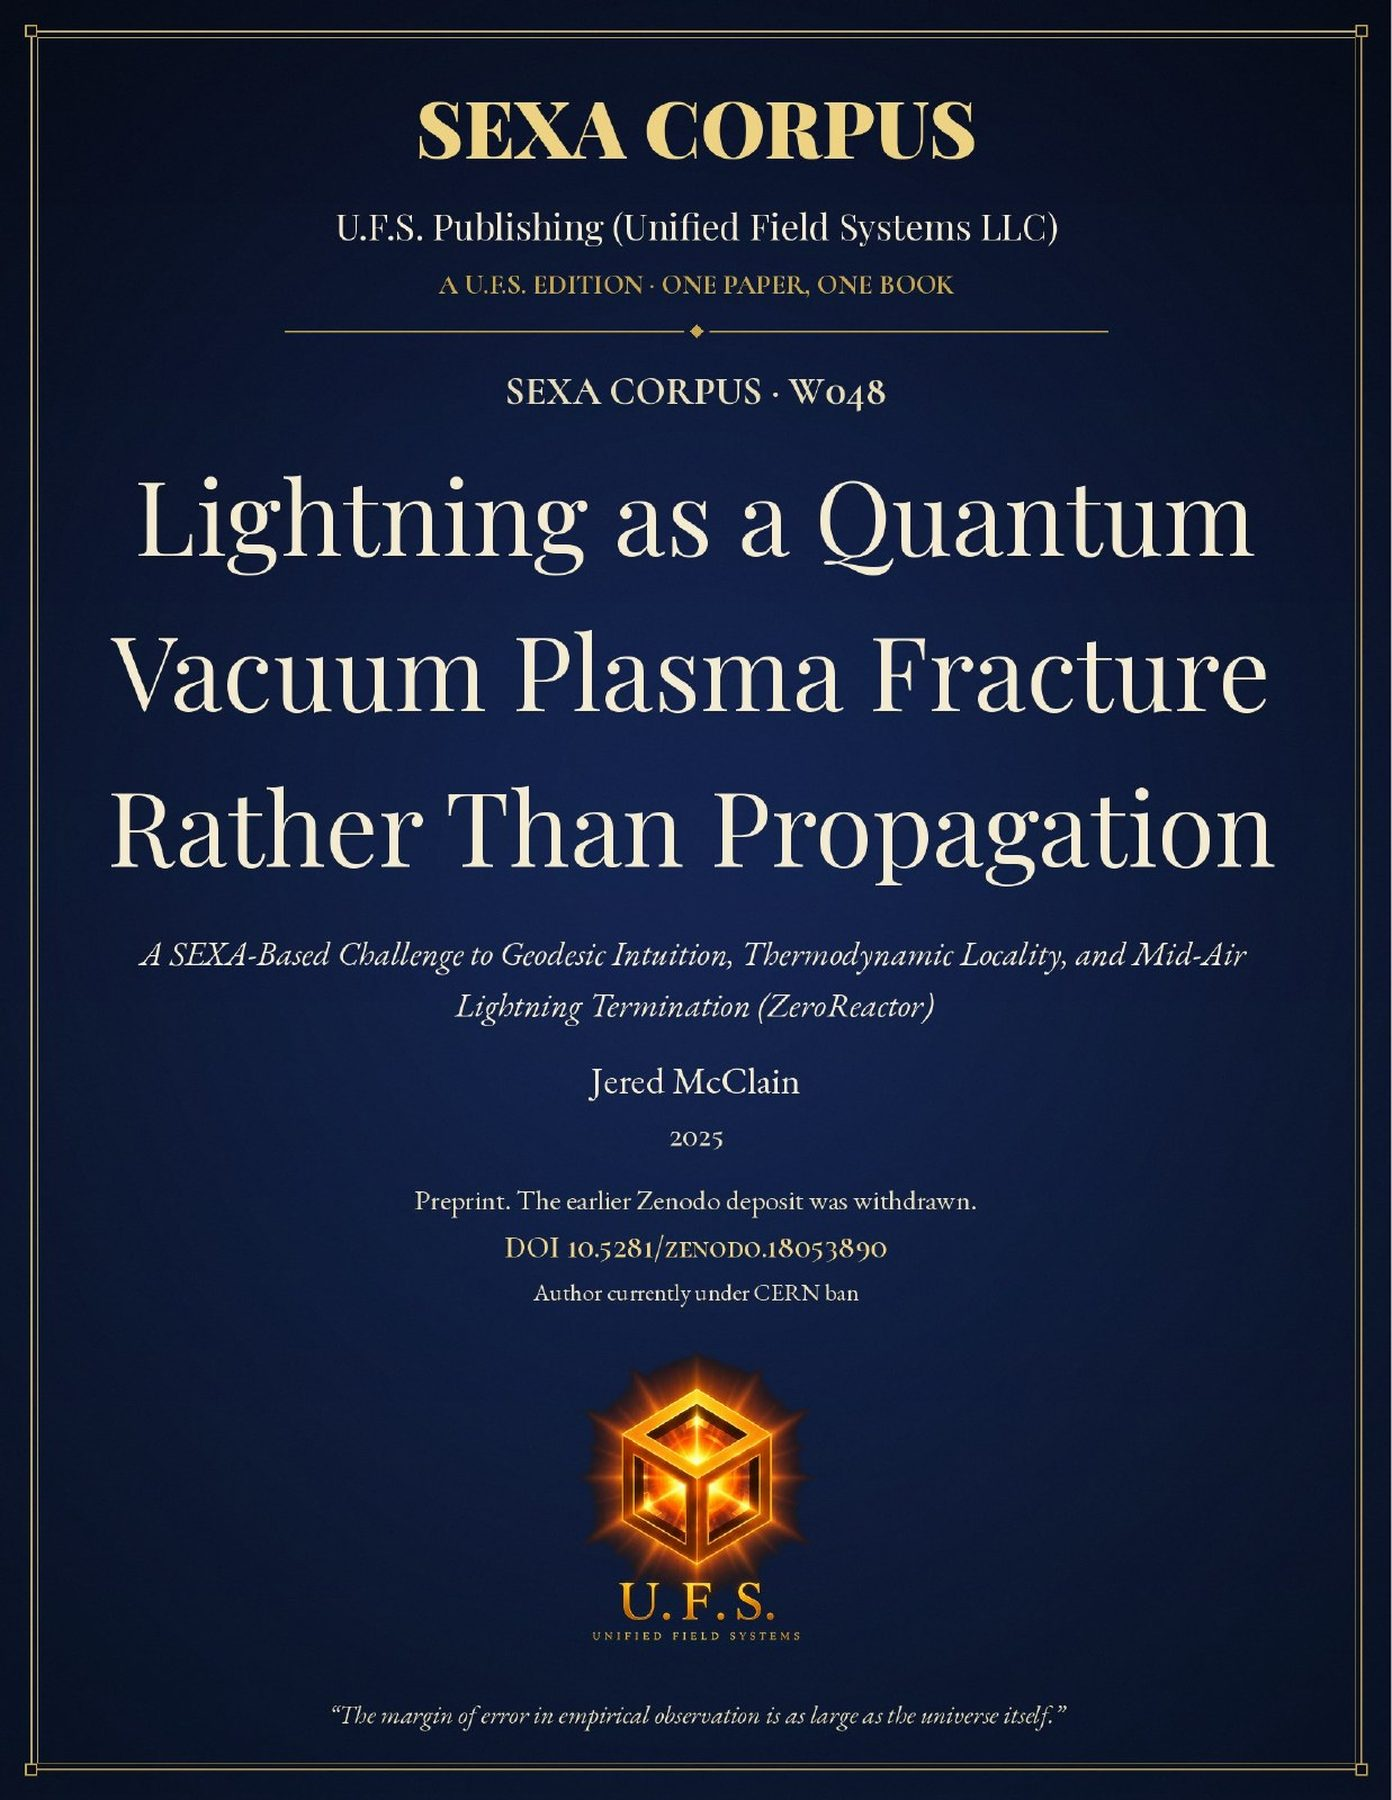
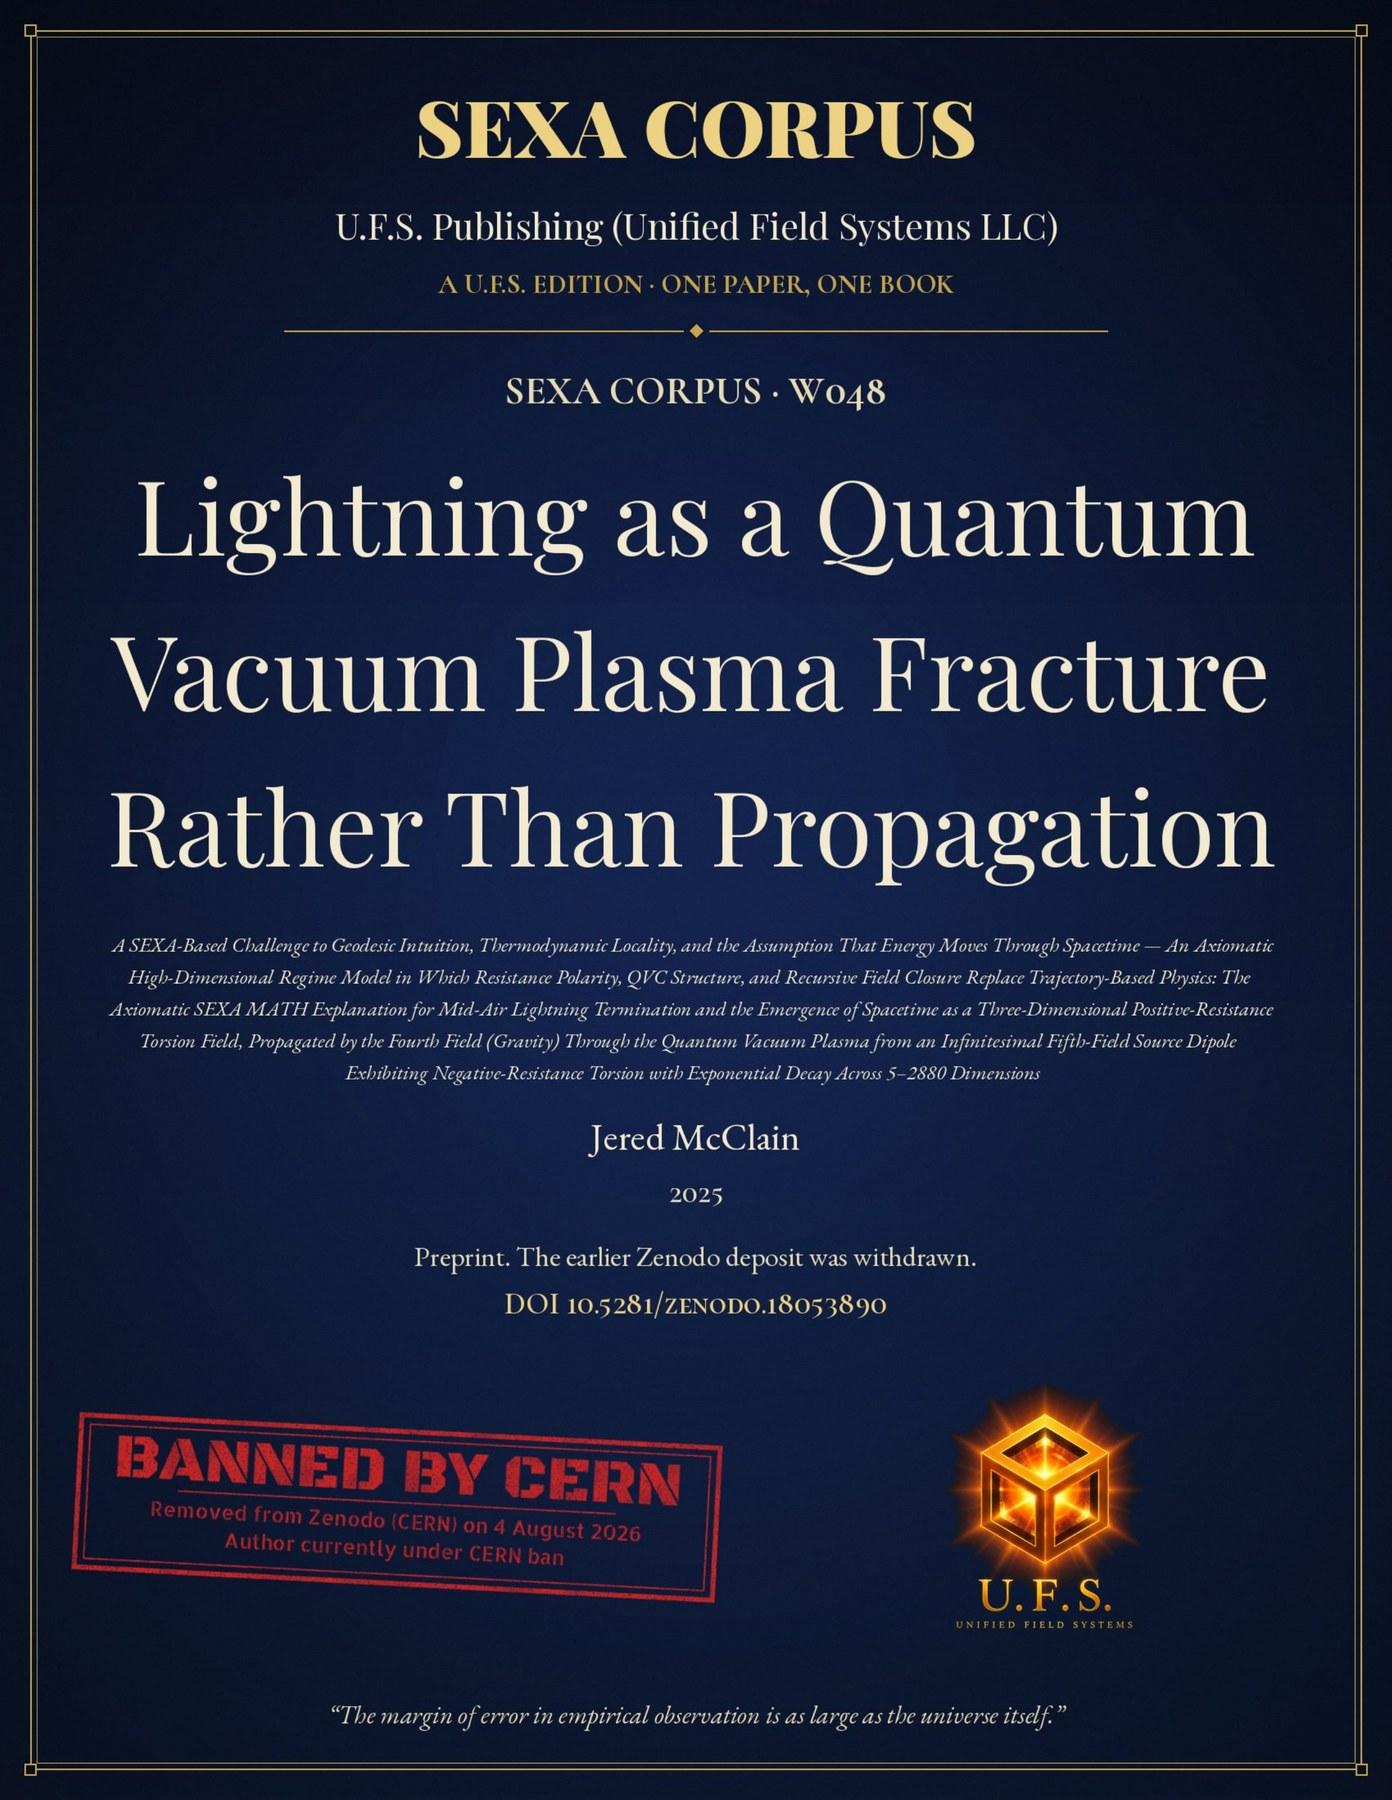
CERN-ban works: BANNED BY CERN stamped front covers + red CERN BAN label beside each cover (W011 W024 W039 W042 W044 W045 W046 W047 W048 W049 W069)

diff --git a/sexa-corpus-witness.html b/sexa-corpus-witness.html
@@ -136,6 +136,7 @@ model-viewer{display:block;width:100%;height:420px;background:#05070a;border-rad
 .contact .fallback{text-align:center;color:var(--mute);font-size:13px;line-height:1.45}
 .contact .fallback a{color:var(--cyan)}
 @media(max-width:640px){.rtype{grid-template-columns:1fr}}
+.cern-ban-label{display:inline-block;font:800 15px/1.2 var(--sans,Arial,Helvetica,sans-serif);letter-spacing:.14em;text-transform:uppercase;color:#C00000;border:2px solid #C00000;padding:4px 10px;margin:10px 0 6px}.cern-card .cern-ban-label{margin:0 0 6px;font-size:13px;padding:3px 8px}
 </style>
 </head>
 <body>
@@ -1249,10 +1250,11 @@ model-viewer{display:block;width:100%;height:420px;background:#05070a;border-rad
 <article class="cbook" id="corpus-W011">
 <figure>
 <picture>
-<source type="image/webp" srcset="assets/corpus/covers/W011.webp">
-<img class="cover" src="assets/corpus/covers/W011.jpg" width="1392" height="1800" alt="Front cover of W011: A Recursive Closure Criterion for a Theory of Everything: A 60-Glyph Quaternionic Inter-Domain Syllogistic Admissibility ≡ Prime Atom of Logic" decoding="async" loading="lazy">
+<source type="image/webp" srcset="assets/corpus/covers/W011.webp?v=cernban1">
+<img class="cover" src="assets/corpus/covers/W011.jpg?v=cernban1" width="1392" height="1800" alt="Front cover of W011: A Recursive Closure Criterion for a Theory of Everything: A 60-Glyph Quaternionic Inter-Domain Syllogistic Admissibility ≡ Prime Atom of Logic" decoding="async" loading="lazy">
 </picture>
 </figure>
+<p class="cern-ban-label" style="color:#C00000;font-weight:800">CERN BAN</p>
 <p class="wid">W011</p>
 <h3>A Recursive Closure Criterion for a Theory of Everything: A 60-Glyph Quaternionic Inter-Domain Syllogistic Admissibility ≡ Prime Atom of Logic</h3>
 <p class="by">Jered McClain</p>
@@ -1369,10 +1371,11 @@ model-viewer{display:block;width:100%;height:420px;background:#05070a;border-rad
 <article class="cbook" id="corpus-W024">
 <figure>
 <picture>
-<source type="image/webp" srcset="assets/corpus/covers/W024.webp">
-<img class="cover" src="assets/corpus/covers/W024.jpg" width="1392" height="1800" alt="Front cover of W024: The Γ-Subthreshold Fold Logic Theorem: Minimal Admissibility Compression, Recursive Information Preservation, and Unique Reconstruction Across the 2880-Dimensional Recursive Hierarchy" decoding="async" loading="lazy">
+<source type="image/webp" srcset="assets/corpus/covers/W024.webp?v=cernban1">
+<img class="cover" src="assets/corpus/covers/W024.jpg?v=cernban1" width="1392" height="1800" alt="Front cover of W024: The Γ-Subthreshold Fold Logic Theorem: Minimal Admissibility Compression, Recursive Information Preservation, and Unique Reconstruction Across the 2880-Dimensional Recursive Hierarchy" decoding="async" loading="lazy">
 </picture>
 </figure>
+<p class="cern-ban-label" style="color:#C00000;font-weight:800">CERN BAN</p>
 <p class="wid">W024</p>
 <h3>The Γ-Subthreshold Fold Logic Theorem: Minimal Admissibility Compression, Recursive Information Preservation, and Unique Reconstruction Across the 2880-Dimensional Recursive Hierarchy</h3>
 <p class="by">Jered McClain; Erydir Ceisiwr</p>
@@ -1389,10 +1392,11 @@ model-viewer{display:block;width:100%;height:420px;background:#05070a;border-rad
 <article class="cbook" id="corpus-W039">
 <figure>
 <picture>
-<source type="image/webp" srcset="assets/corpus/covers/W039.webp">
-<img class="cover" src="assets/corpus/covers/W039.jpg" width="1392" height="1800" alt="Front cover of W039: Unified Recursive Manifold Dynamics, Dimensional Collapse Operators, and Triality-Structured Exciter Geometry — MASTER PEER REVIEW EDITION" decoding="async" loading="lazy">
+<source type="image/webp" srcset="assets/corpus/covers/W039.webp?v=cernban1">
+<img class="cover" src="assets/corpus/covers/W039.jpg?v=cernban1" width="1392" height="1800" alt="Front cover of W039: Unified Recursive Manifold Dynamics, Dimensional Collapse Operators, and Triality-Structured Exciter Geometry — MASTER PEER REVIEW EDITION" decoding="async" loading="lazy">
 </picture>
 </figure>
+<p class="cern-ban-label" style="color:#C00000;font-weight:800">CERN BAN</p>
 <p class="wid">W039</p>
 <h3>Unified Recursive Manifold Dynamics, Dimensional Collapse Operators, and Triality-Structured Exciter Geometry — MASTER PEER REVIEW EDITION</h3>
 <p class="by">Jered McClain</p>
@@ -1409,10 +1413,11 @@ model-viewer{display:block;width:100%;height:420px;background:#05070a;border-rad
 <article class="cbook" id="corpus-W042">
 <figure>
 <picture>
-<source type="image/webp" srcset="assets/corpus/covers/W042.webp">
-<img class="cover" src="assets/corpus/covers/W042.jpg" width="1392" height="1800" alt="Front cover of W042: The Last Constant: A Theorem-Grade Formalization of Recursive Propagation, Higher-Dimensional Transport, Recursive Admissibility, Computational Correspondence, Dimensional Closure, and Relativistic Horizon Structure Within the SEXA Unified Field Framework" decoding="async" loading="lazy">
+<source type="image/webp" srcset="assets/corpus/covers/W042.webp?v=cernban1">
+<img class="cover" src="assets/corpus/covers/W042.jpg?v=cernban1" width="1392" height="1800" alt="Front cover of W042: The Last Constant: A Theorem-Grade Formalization of Recursive Propagation, Higher-Dimensional Transport, Recursive Admissibility, Computational Correspondence, Dimensional Closure, and Relativistic Horizon Structure Within the SEXA Unified Field Framework" decoding="async" loading="lazy">
 </picture>
 </figure>
+<p class="cern-ban-label" style="color:#C00000;font-weight:800">CERN BAN</p>
 <p class="wid">W042</p>
 <h3>The Last Constant: A Theorem-Grade Formalization of Recursive Propagation, Higher-Dimensional Transport, Recursive Admissibility, Computational Correspondence, Dimensional Closure, and Relativistic Horizon Structure Within the SEXA Unified Field Framework</h3>
 <p class="by">Jered McClain; Erydir Ceisiwr</p>
@@ -1429,10 +1434,11 @@ model-viewer{display:block;width:100%;height:420px;background:#05070a;border-rad
 <article class="cbook" id="corpus-W044">
 <figure>
 <picture>
-<source type="image/webp" srcset="assets/corpus/covers/W044.webp">
-<img class="cover" src="assets/corpus/covers/W044.jpg" width="1392" height="1800" alt="Front cover of W044: The AMN Authority Tensor: Quaternionic Admissibility Enforcement, Glyph-Operator Constraint, and Planetary Closure in the SEXA Framework" decoding="async" loading="lazy">
+<source type="image/webp" srcset="assets/corpus/covers/W044.webp?v=cernban1">
+<img class="cover" src="assets/corpus/covers/W044.jpg?v=cernban1" width="1392" height="1800" alt="Front cover of W044: The AMN Authority Tensor: Quaternionic Admissibility Enforcement, Glyph-Operator Constraint, and Planetary Closure in the SEXA Framework" decoding="async" loading="lazy">
 </picture>
 </figure>
+<p class="cern-ban-label" style="color:#C00000;font-weight:800">CERN BAN</p>
 <p class="wid">W044</p>
 <h3>The AMN Authority Tensor: Quaternionic Admissibility Enforcement, Glyph-Operator Constraint, and Planetary Closure in the SEXA Framework</h3>
 <p class="by">Jered McClain; Erydir Ceisiwr</p>
@@ -1449,10 +1455,11 @@ model-viewer{display:block;width:100%;height:420px;background:#05070a;border-rad
 <article class="cbook" id="corpus-W045">
 <figure>
 <picture>
-<source type="image/webp" srcset="assets/corpus/covers/W045.webp">
-<img class="cover" src="assets/corpus/covers/W045.jpg" width="1392" height="1800" alt="Front cover of W045: Anti-Direct Short: A Negentropic Circuit Topology for Source-Dipole Preservation and Load-Loss Recollection via Diakoptic Back-Feed" decoding="async" loading="lazy">
+<source type="image/webp" srcset="assets/corpus/covers/W045.webp?v=cernban1">
+<img class="cover" src="assets/corpus/covers/W045.jpg?v=cernban1" width="1392" height="1800" alt="Front cover of W045: Anti-Direct Short: A Negentropic Circuit Topology for Source-Dipole Preservation and Load-Loss Recollection via Diakoptic Back-Feed" decoding="async" loading="lazy">
 </picture>
 </figure>
+<p class="cern-ban-label" style="color:#C00000;font-weight:800">CERN BAN</p>
 <p class="wid">W045</p>
 <h3>Anti-Direct Short: A Negentropic Circuit Topology for Source-Dipole Preservation and Load-Loss Recollection via Diakoptic Back-Feed</h3>
 <p class="by">Jered McClain</p>
@@ -1469,10 +1476,11 @@ model-viewer{display:block;width:100%;height:420px;background:#05070a;border-rad
 <article class="cbook" id="corpus-W046">
 <figure>
 <picture>
-<source type="image/webp" srcset="assets/corpus/covers/W046.webp">
-<img class="cover" src="assets/corpus/covers/W046.jpg" width="1392" height="1800" alt="Front cover of W046: Joey Rubin’s Kinetic Blueprinting, the 1-D Visibility Threshold, and SEXA MATH Real-Time Imagery Across 5–2880D" decoding="async" loading="lazy">
+<source type="image/webp" srcset="assets/corpus/covers/W046.webp?v=cernban1">
+<img class="cover" src="assets/corpus/covers/W046.jpg?v=cernban1" width="1392" height="1800" alt="Front cover of W046: Joey Rubin’s Kinetic Blueprinting, the 1-D Visibility Threshold, and SEXA MATH Real-Time Imagery Across 5–2880D" decoding="async" loading="lazy">
 </picture>
 </figure>
+<p class="cern-ban-label" style="color:#C00000;font-weight:800">CERN BAN</p>
 <p class="wid">W046</p>
 <h3>Joey Rubin’s Kinetic Blueprinting, the 1-D Visibility Threshold, and SEXA MATH Real-Time Imagery Across 5–2880D</h3>
 <p class="by">Jered McClain</p>
@@ -1489,10 +1497,11 @@ model-viewer{display:block;width:100%;height:420px;background:#05070a;border-rad
 <article class="cbook" id="corpus-W047">
 <figure>
 <picture>
-<source type="image/webp" srcset="assets/corpus/covers/W047.webp">
-<img class="cover" src="assets/corpus/covers/W047.jpg" width="1392" height="1800" alt="Front cover of W047: Artificial Rest: A High-Dimensional Restorative Regime Derived from the SEXA Unified Field Theory" decoding="async" loading="lazy">
+<source type="image/webp" srcset="assets/corpus/covers/W047.webp?v=cernban1">
+<img class="cover" src="assets/corpus/covers/W047.jpg?v=cernban1" width="1392" height="1800" alt="Front cover of W047: Artificial Rest: A High-Dimensional Restorative Regime Derived from the SEXA Unified Field Theory" decoding="async" loading="lazy">
 </picture>
 </figure>
+<p class="cern-ban-label" style="color:#C00000;font-weight:800">CERN BAN</p>
 <p class="wid">W047</p>
 <h3>Artificial Rest: A High-Dimensional Restorative Regime Derived from the SEXA Unified Field Theory</h3>
 <p class="by">Jered McClain</p>
@@ -1509,10 +1518,11 @@ model-viewer{display:block;width:100%;height:420px;background:#05070a;border-rad
 <article class="cbook" id="corpus-W048">
 <figure>
 <picture>
-<source type="image/webp" srcset="assets/corpus/covers/W048.webp">
-<img class="cover" src="assets/corpus/covers/W048.jpg" width="1392" height="1800" alt="Front cover of W048: Lightning as a Quantum Vacuum Plasma Fracture Rather Than Propagation — A SEXA-Based Challenge to Geodesic Intuition, Thermodynamic Locality, and Mid-Air Lightning Termination (ZeroReactor)" decoding="async" loading="lazy">
+<source type="image/webp" srcset="assets/corpus/covers/W048.webp?v=cernban1">
+<img class="cover" src="assets/corpus/covers/W048.jpg?v=cernban1" width="1392" height="1800" alt="Front cover of W048: Lightning as a Quantum Vacuum Plasma Fracture Rather Than Propagation — A SEXA-Based Challenge to Geodesic Intuition, Thermodynamic Locality, and Mid-Air Lightning Termination (ZeroReactor)" decoding="async" loading="lazy">
 </picture>
 </figure>
+<p class="cern-ban-label" style="color:#C00000;font-weight:800">CERN BAN</p>
 <p class="wid">W048</p>
 <h3>Lightning as a Quantum Vacuum Plasma Fracture Rather Than Propagation — A SEXA-Based Challenge to Geodesic Intuition, Thermodynamic Locality, and Mid-Air Lightning Termination (ZeroReactor)</h3>
 <p class="by">Jered McClain</p>
@@ -1529,10 +1539,11 @@ model-viewer{display:block;width:100%;height:420px;background:#05070a;border-rad
 <article class="cbook" id="corpus-W049">
 <figure>
 <picture>
-<source type="image/webp" srcset="assets/corpus/covers/W049.webp">
-<img class="cover" src="assets/corpus/covers/W049.jpg" width="1392" height="1800" alt="Front cover of W049: SEXA: An Axiomatic Closure Framework for Recursive Manifold Physics — Exciternion Evaluation, Dimensional Collapse, and Cross-Domain Constructability" decoding="async" loading="lazy">
+<source type="image/webp" srcset="assets/corpus/covers/W049.webp?v=cernban1">
+<img class="cover" src="assets/corpus/covers/W049.jpg?v=cernban1" width="1392" height="1800" alt="Front cover of W049: SEXA: An Axiomatic Closure Framework for Recursive Manifold Physics — Exciternion Evaluation, Dimensional Collapse, and Cross-Domain Constructability" decoding="async" loading="lazy">
 </picture>
 </figure>
+<p class="cern-ban-label" style="color:#C00000;font-weight:800">CERN BAN</p>
 <p class="wid">W049</p>
 <h3>SEXA: An Axiomatic Closure Framework for Recursive Manifold Physics — Exciternion Evaluation, Dimensional Collapse, and Cross-Domain Constructability</h3>
 <p class="by">Jered McClain</p>
@@ -1629,10 +1640,11 @@ model-viewer{display:block;width:100%;height:420px;background:#05070a;border-rad
 <article class="cbook" id="corpus-W069">
 <figure>
 <picture>
-<source type="image/webp" srcset="assets/corpus/covers/W069.webp">
-<img class="cover" src="assets/corpus/covers/W069.jpg" width="1392" height="1800" alt="Front cover of W069: SEXA Unified Field Theory: The Structured Survivability Audit; Formal Compatibility and Falsifiability Assessment of the SEXA Unified Field Model; and CCT/SEXA ↔ SIGMATICS Correspondence, Proven Through Computational Analysis" decoding="async" loading="lazy">
+<source type="image/webp" srcset="assets/corpus/covers/W069.webp?v=cernban1">
+<img class="cover" src="assets/corpus/covers/W069.jpg?v=cernban1" width="1392" height="1800" alt="Front cover of W069: SEXA Unified Field Theory: The Structured Survivability Audit; Formal Compatibility and Falsifiability Assessment of the SEXA Unified Field Model; and CCT/SEXA ↔ SIGMATICS Correspondence, Proven Through Computational Analysis" decoding="async" loading="lazy">
 </picture>
 </figure>
+<p class="cern-ban-label" style="color:#C00000;font-weight:800">CERN BAN</p>
 <p class="wid">W069</p>
 <h3>SEXA Unified Field Theory: The Structured Survivability Audit; Formal Compatibility and Falsifiability Assessment of the SEXA Unified Field Model; and CCT/SEXA ↔ SIGMATICS Correspondence, Proven Through Computational Analysis</h3>
 <p class="by">Jered McClain; Erydir Ceisiwr</p>
